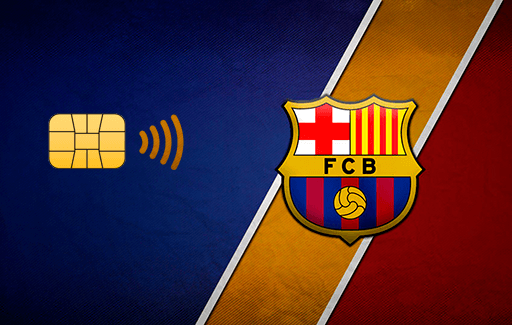
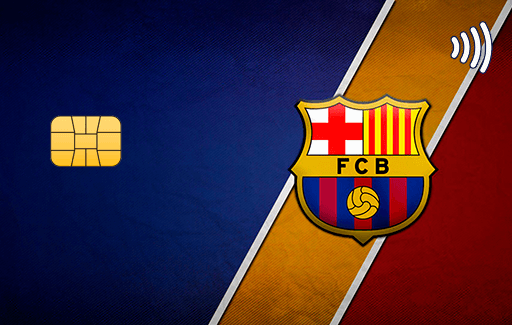
skins translations + 2 skins updated

Changed region(s): [[0.0312, 0.0, 1.0, 1.0], [0.0938, 0.3385, 0.375, 0.5231]]

diff --git a/src/components/AccountCard/skins.css b/src/components/AccountCard/skins.css
@@ -167,10 +167,6 @@
   --balance-amount-shadow: var(--title-shadow);
 }
 
-.account-card.acMilan .account-card-balance-container {
-  @apply right-auto left-[29%];
-}
-
 .account-card.arsenal {
   --card-color: #E5050A;
   --balance-title-shadow: var(--card-color-text-shadow);
@@ -200,14 +196,6 @@
   --title-shadow: var(--custom-text-shadow);
   --balance-title-shadow: var(--title-shadow);
   --balance-amount-shadow: var(--title-shadow);
-}
-
-.account-card.barcelona .account-card-content {
-  @apply bottom-1;
-}
-
-.account-card.barcelona .account-card-balance-container {
-  @apply right-auto left-[10%] bottom-1/4;
 }
 
 .account-card.bayern {
@@ -247,19 +235,11 @@
   --balance-amount-shadow: var(--title-shadow);
 }
 
-.account-card.interMilan .account-card-balance-container {
-  @apply right-auto left-[29%];
-}
-
 .account-card.juventus {
   --card-color: #1A1A1A;
   --title-shadow: var(--black-text-shadow);
   --balance-title-shadow: var(--title-shadow);
   --balance-amount-shadow: var(--title-shadow);
-}
-
-.account-card.juventus .account-card-balance-container {
-  @apply right-auto left-[29%];
 }
 
 .account-card.liverpool {
@@ -286,10 +266,6 @@
   --balance-amount-shadow: var(--title-shadow);
 }
 
-.account-card.manUtd .account-card-balance-container {
-  @apply left-[29%];
-}
-
 .account-card.napoli {
   --card-color: #00A2D4;
   --title-shadow: var(--card-color-text-shadow);
@@ -298,7 +274,7 @@
 }
 
 .account-card.neftchi {
-  --card-color: #222222;
+  --card-color: #1C0E0C;
   --title-shadow: var(--card-color-text-shadow);
   --balance-title-shadow: var(--title-shadow);
   --balance-amount-shadow: var(--title-shadow);
@@ -334,6 +310,15 @@
   --balance-title-shadow: var(--title-color-shadow);
   --balance-amount-color: white;
   --balance-amount-shadow: var(--title-color-shadow);
+}
+
+.account-card.acMilan .account-card-balance-container,
+.account-card.barcelona .account-card-balance-container,
+.account-card.neftchi .account-card-balance-container,
+.account-card.juventus .account-card-balance-container,
+.account-card.interMilan .account-card-balance-container
+.account-card.manUtd .account-card-balance-container {
+  @apply right-auto left-[28%];
 }
 
 .account-card .account-card-face {
